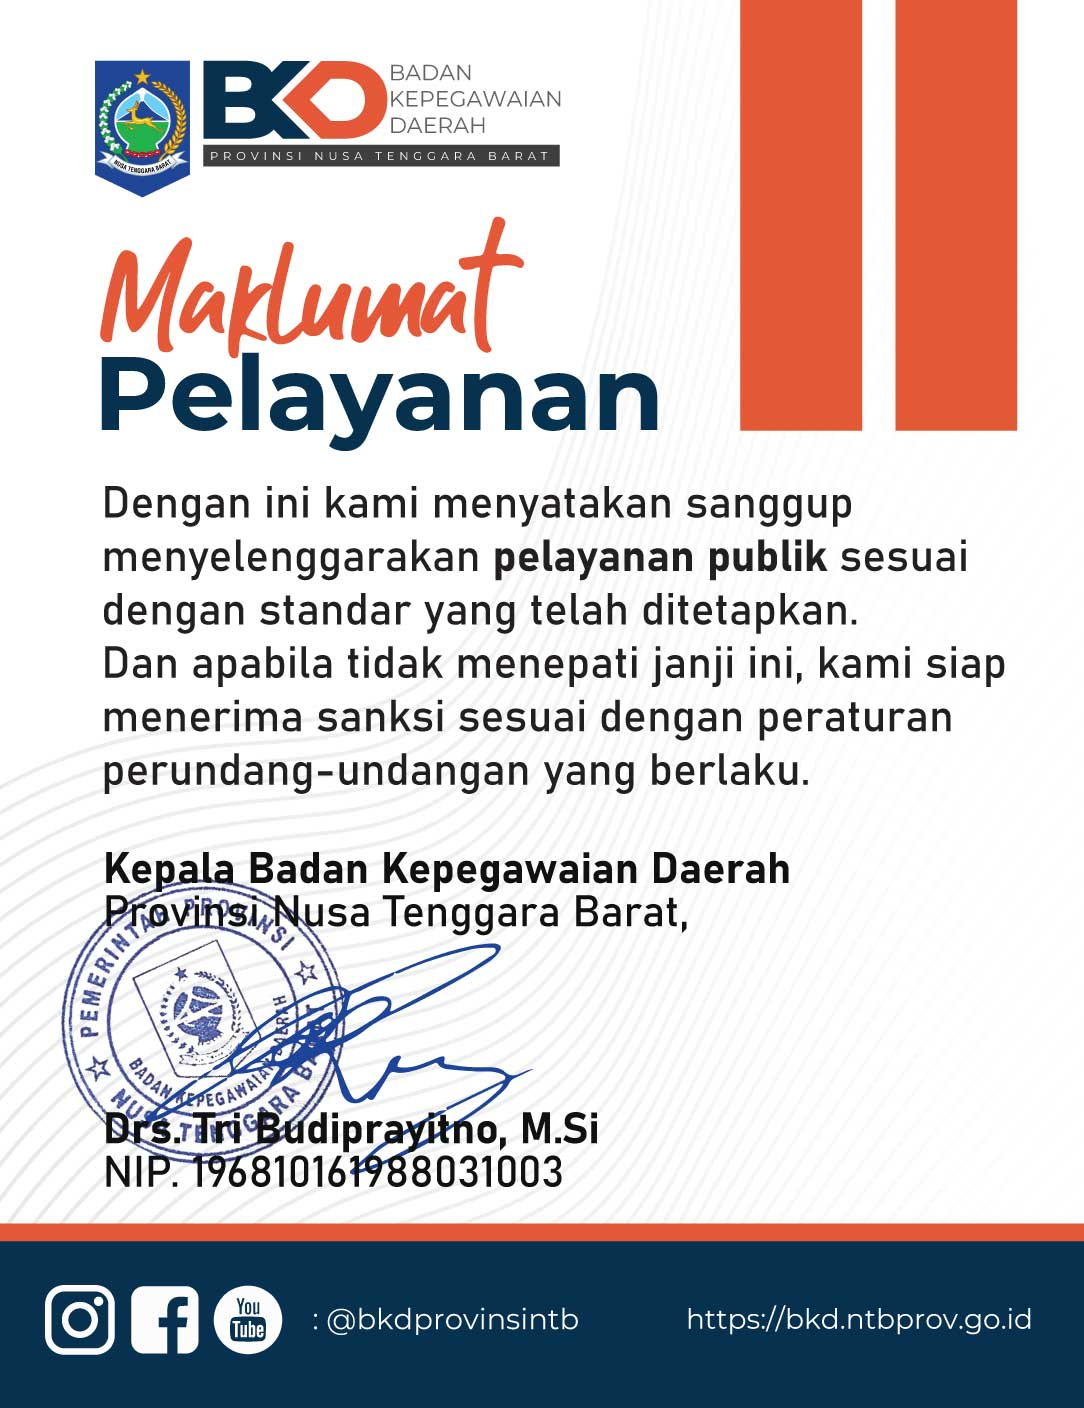
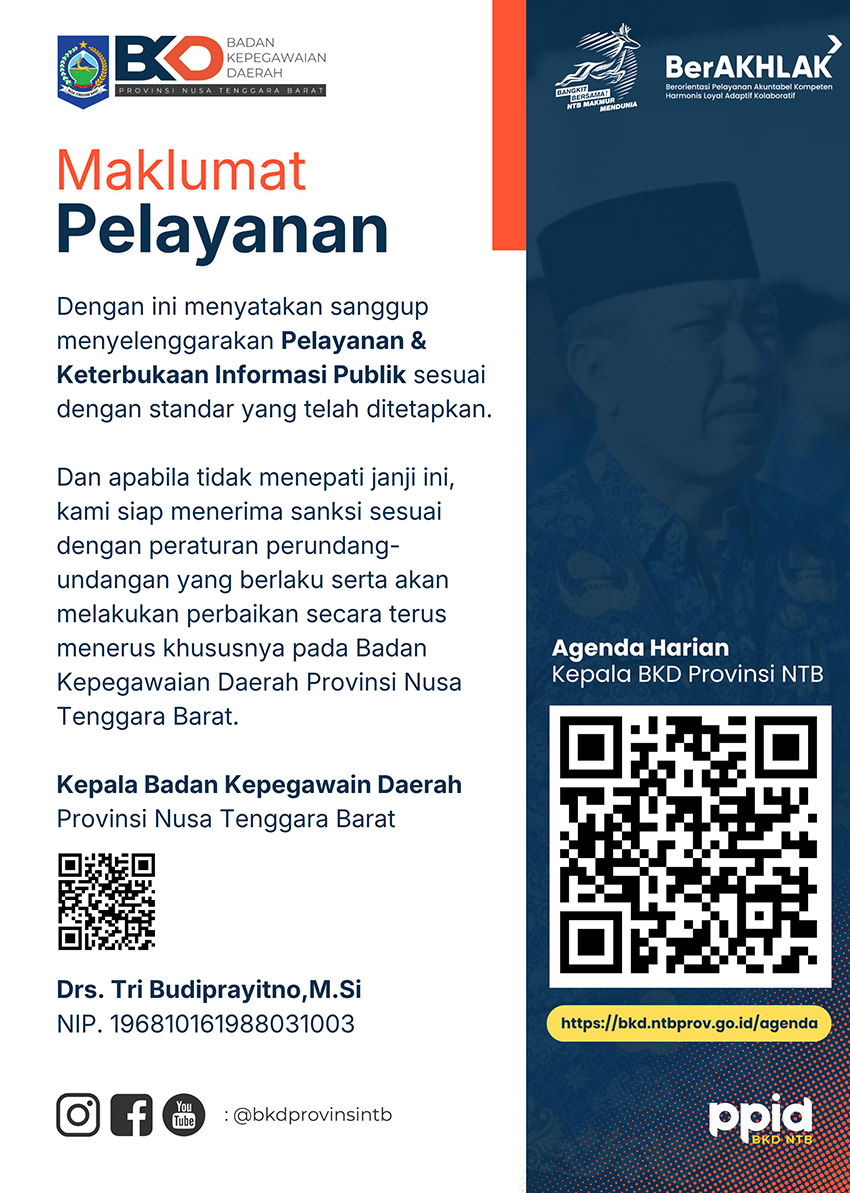
update home dan menu manajamen talenta

diff --git a/application/views/manajementalenta.php b/application/views/manajementalenta.php
@@ -28,8 +28,7 @@
                             <div class="text">
                                 <p>Manajemen Talenta ASN Instansi adalah sistem manajemen karier ASN yang meliputi tahapan akuisisi, pengembangan, retensi, dan penempatan talenta yang diprioritaskan untuk menduduki jabatan target berdasarkan tingkatan potensial dan kinerja tertinggi melalui mekanisme tertentu yang dilaksanakan secara efektif dan berkelanjutan untuk memenuhi kebutuhan Instansi Pusat dan Instansi Daerah. Untuk mewujudkan <b>Triple Agenda</b> pembangunan daerah, maka <b>Pemerintah Provinsi NTB memerlukan Sumber Daya Manusia yang kompeten</b> untuk menjalankan dan mengelola program yang tertuang dalam RPJMD Provinsi NTB 2025 -2029.
 
-                                <a href="<?php echo base_url().'assets/'?>download/SK MANAJEMEN TALENTA PEMERINTAH PROVINSI NTB-1.pdf" target="_blank"><b>Unduh SK Penetapan Manajemen Talenta di Lingkungan Pemerintah Provinsi NTB</b></a>
-                         </p>
+                                  </p>
                                 </div>
                             
                             <div class="button">
@@ -54,3 +53,207 @@
             </div>
         </section>
         <!--End About Style2 Area-->
+
+          <!--Start Latest Projects Area-->
+        <section class="latest-projects-area">
+            <div class="container">
+                <div class="sec-title">
+                    <p>Jakarta, 6 Agustus 2026</p>
+                    <div class="title clr-white">Expose Manajemen Talenta di BKN RI</div>
+                </div>
+            </div>
+            <div class="container-fluid latest-projects-v3">
+                <div class="row">
+                    <div class="col-xl-12">
+                        <div class="project-carousel-v3 owl-carousel owl-theme">
+
+                              <!--Start Single excellent project-->
+                            <div class="single-project-style3">
+                                <div class="img-holder">
+                                    <img src="<?php echo base_url().'assets/'?>images/projects/mata4.jpg" alt="Awesome Image">
+                                    <div class="overlay-content">
+                                        <div class="inner-content">
+                                            <div class="links-icons">
+                                                <a href="/manajementalenta"><span class="icon-link"></span></a>
+                                            </div>
+                                        </div>
+                                    </div>
+                                </div>
+                                
+                            </div>
+                            <!--End Single excellent project-->
+
+                            <!--Start Single excellent project-->
+                            <div class="single-project-style3">
+                                <div class="img-holder">
+                                    <img src="<?php echo base_url().'assets/'?>images/projects/mata1.jpg" alt="Awesome Image">
+                                    <div class="overlay-content">
+                                        <div class="inner-content">
+                                            <div class="links-icons">
+                                                <a href="/manajementalenta"><span class="icon-link"></span></a>
+                                            </div>
+                                        </div>
+                                    </div>
+                                </div>
+                                
+                            </div>
+                            <!--End Single excellent project-->
+
+                             <!--Start Single excellent project-->
+                            <div class="single-project-style3">
+                                <div class="img-holder">
+                                    <img src="<?php echo base_url().'assets/'?>images/projects/mata5.jpg" alt="Awesome Image">
+                                    <div class="overlay-content">
+                                        <div class="inner-content">
+                                            <div class="links-icons">
+                                                <a href="/manajementalenta"><span class="icon-link"></span></a>
+                                            </div>
+                                        </div>
+                                    </div>
+                                </div>
+                                
+                            </div>
+                            <!--End Single excellent project-->
+
+                             <!--Start Single excellent project-->
+                            <div class="single-project-style3">
+                                <div class="img-holder">
+                                    <img src="<?php echo base_url().'assets/'?>images/projects/mata2.jpg" alt="Awesome Image">
+                                    <div class="overlay-content">
+                                        <div class="inner-content">
+                                            <div class="links-icons">
+                                                <a href="/manajementalenta"><span class="icon-link"></span></a>
+                                            </div>
+                                        </div>
+                                    </div>
+                                </div>
+                                
+                            </div>
+                            <!--End Single excellent project-->
+
+                             <!--Start Single excellent project-->
+                            <div class="single-project-style3">
+                                <div class="img-holder">
+                                    <img src="<?php echo base_url().'assets/'?>images/projects/mata3.jpg" alt="Awesome Image">
+                                    <div class="overlay-content">
+                                        <div class="inner-content">
+                                            <div class="links-icons">
+                                                <a href="/manajementalenta"><span class="icon-link"></span></a>
+                                            </div>
+                                        </div>
+                                    </div>
+                                </div>
+                                
+                            </div>
+                            <!--End Single excellent project-->
+
+                           
+
+                            
+                            
+
+                        </div>
+                    </div>
+                </div>
+            </div>
+        </section>
+        <!--End Latest Projects Area-->
+
+
+         <!--Start Company Overview Area-->
+        <section class="company-overview-area">
+            <div class="container">
+                <div class="row">
+                    <div class="col-xl-12">
+                        <div class="intro-box clearfix">
+                            <div class="sec-title">
+                                <p>Keputusan Kepala BKN RI Nomor 863 Tahun 2026</p>
+                                <div class="title">Persetujuan Penerapan<br>Manajemen Talenta <br><span>pada Lingkungan <br>Pemerintah Provinsi NTB</span></div>
+                            </div>
+                            <div class="text">
+                                <p>Bahwa berdasarkan hasil Rapat Ekspose Penerapan Manajemen Talenta pada tanggal <br>6 Agustus 2026, Kepala BKN menyetujui penerapan manajemen talenta di Lingkungan Pemerintah Provinsi Nusa Tenggara Barat sebagai dasar pengembangan talenta dan karier ASN yang dilaksanakan melalui mobilitas talenta.<br><br>
+                                 <a class="btn-one" href="<?php echo base_url().'assets/'?>download/SK MANAJEMEN TALENTA PEMERINTAH PROVINSI NTB-1.pdf" target="_blank"><b>Unduh SK Penetapan Manajemen Talenta</b></a>
+                      
+                                </p>
+                            </div>
+                        </div>
+                    </div>
+                </div>
+
+                <br><br>
+                <div class="row">
+                    <div class="col-xl-12">
+                        <div class="history-content-box clearfix">
+                            <div class="history-carousel owl-carousel owl-theme">
+                                <!--Start Single History Content-->
+                                <div class="single-history-content">
+                                    <div class="img-box">
+                                        <div class="inner">
+                                            <img src="<?php echo base_url().'assets/'?>images/resources/1.png" alt="Awesome Image">
+                                        </div>
+                                    </div>
+                                    <div class="text-box">
+                                        <div class="inner">
+                                           
+                                                <h3>Gubernur Nusa Tenggara Barat</h3><br>
+                                           
+                                            <div class="text">
+                                                <p>Pengembangan karier ASN tidak boleh lagi bergantung pada kontestasi sesaat. Ke depan, karier aparatur harus dipandu oleh Manajemen Talenta ASN berbasis kinerja dan potensi sehingga adil bagi ASN dan menguntungkan organisasi.</p>
+                                                <a class="btn-two" href="#">Dr. Lalu Muhamad Iqbal<span class="flaticon-next"></span></a>
+                                            </div>
+                                        </div>
+                                    </div>
+                                </div>
+                                <!--End Single History Content-->
+
+                                <!--Start Single History Content-->
+                                <div class="single-history-content">
+                                    <div class="img-box">
+                                        <div class="inner">
+                                            <img src="<?php echo base_url().'assets/'?>images/resources/2.png" alt="Awesome Image">
+                                        </div>
+                                    </div>
+                                    <div class="text-box">
+                                        <div class="inner">
+                                           
+                                                <h3>Wakil Gubernur Nusa Tenggara Barat</h3><br>
+                                           
+                                            <div class="text">
+                                                <p>Menjadi pemimpin tidak hanya membanggakan diri dengan sejumlah prestasi yang dicapai. Tetapi yang lebih utama, Bapak/Ibu sebagai pemimpin bisa memberikan rasa nyaman bagi seluruh bawahan, memastikan semangat mereka tetap terjaga, dan tidak ada ketakutan berlebihan ketika dipercayai menempati jabatan. Kerja sungguh-sungguh yang Bapak/Ibu tunjukkan tidak pernah akan bisa tertukar dengan pihak lain.</p>
+                                                <a class="btn-two" href="#">Hj. Indah Dhamayanti Putri, SE., M.IP<span class="flaticon-next"></span></a>
+                                            </div>
+                                        </div>
+                                    </div>
+                                </div>
+                                <!--End Single History Content-->
+
+                                <!--Start Single History Content-->
+                                <div class="single-history-content">
+                                    <div class="img-box">
+                                        <div class="inner">
+                                            <img src="<?php echo base_url().'assets/'?>images/resources/3.png" alt="Awesome Image">
+                                        </div>
+                                    </div>
+                                    <div class="text-box">
+                                        <div class="inner">
+                                           
+                                                <h3>Sekretaris Daerah Provinsi NTB</h3><br>
+                                           
+                                            <div class="text">
+                                                <p>Provinsi NTB sedang bergerak maju dengan menyiapkan tenaga-tenaga ahli yang diperlukan untuk membawa NTB ke arah yang lebih baik. Melalui manajemen talenta, Pemprov NTB berharap penataan ASN tidak hanya menghasilkan distribusi pegawai yang lebih proporsional, tetapi juga mampu memastikan setiap aparatur ditempatkan sesuai kemampuan dan kebutuhan organisasi.</p>
+                                                <a class="btn-two" href="#">Abul Chair, Ak<span class="flaticon-next"></span></a>
+                                            </div>
+                                        </div>
+                                    </div>
+                                </div>
+                                <!--End Single History Content-->
+                                
+                                
+                            </div>
+                        </div>
+                    </div>
+                </div>
+               
+            </div>
+        </section>
+        <!--End Company Overview Area-->

diff --git a/application/views/maklumat.php b/application/views/maklumat.php
@@ -23,25 +23,14 @@
                     <div class="about-style2-text">
                         <div class="sec-title">
                             <p>Komitmen Pimpinan</p>
-                            <div class="title">Maklumat Pelayanan <br>BKD Provinsi NTB</div>
+                            <div class="title">Pengertian <br>Maklumat Pelayanan</div>
                         </div>
                         <div class="text">
-                            <p align="justify">Dengan ini menyatakan sanggup menyelenggarakan pelayanan sesuai dengan standar pelayanan yang telah ditetapkan dan apabila tidak menepati janji ini, kami siap menerima sanksi dan/atau memberikan kompensasi jika pelayanan tidak sesuai dengan standar serta akan melakukan perbaikan secara terus menerus.</a-->
-                            </p>
+                            <p align="justify">Maklumat Pelayanan adalah pernyataan tertulis yang berisi kesanggupan dan kewajiban penyelenggara pelayanan publik untuk melaksanakan pelayanan sesuai dengan standar pelayanan yang telah ditetapkan, serta kesiapan untuk menerima konsekuensi atau memberikan tindak lanjut apabila pelayanan yang diberikan tidak sesuai dengan ketentuan tersebut.<br>
+                        Maklumat Pelayanan merupakan bentuk komitmen instansi pemerintah dalam memberikan pelayanan yang profesional, transparan, akuntabel, adil, dan berorientasi pada kepuasan masyarakat. Maklumat ini juga menjadi sarana untuk membangun kepercayaan publik sekaligus memberikan kepastian kepada masyarakat mengenai kualitas pelayanan yang berhak mereka terima ataupun ketahui.<br>
+                    Dalam konteks Badan Kepegawaian Daerah (BKD) Provinsi NTB, Maklumat Pelayanan menjadi wujud komitmen dalam menyelenggarakan layanan kepegawaian yang mudah diakses, cepat, tepat, ramah, dan bebas dari diskriminasi, dengan mengedepankan integritas serta pemanfaatan teknologi informasi.</p>
                         </div>
-                        <div class="authorised-info">
-                            <div class="signature">
-                                <img src="<?php echo base_url().'assets/'?>images/resources/qrcode.jpg" width="140px" height="140px" alt="QrCode">
-                            </div>
-                            <div class="name">
-							
-                                <h3>Drs. Tri Budiprayitno, M.Si</h3>
-                                <p>Kepala BKD Provinsi NTB</p>
-								
-                                
-                           
-                            </div>
-                        </div>
+                        
                         <!--div class="button">
                             <a class="btn-one" href="profil.html">Selengkapnya<span class="flaticon-next"></span></a>
                         </div-->
